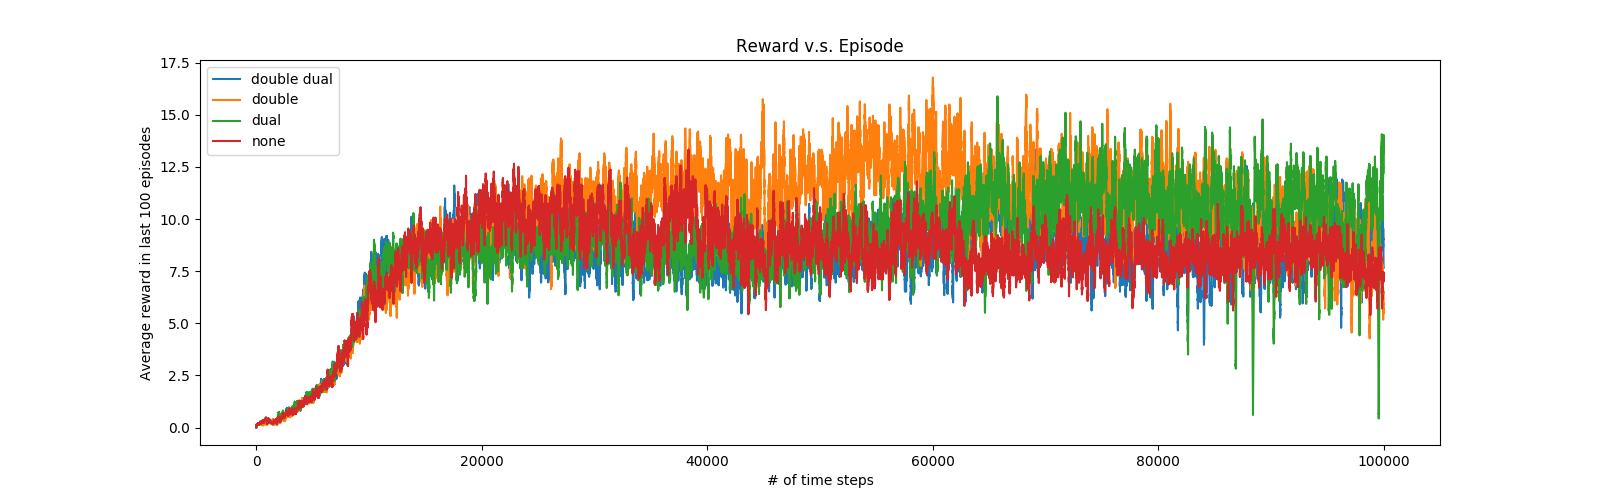
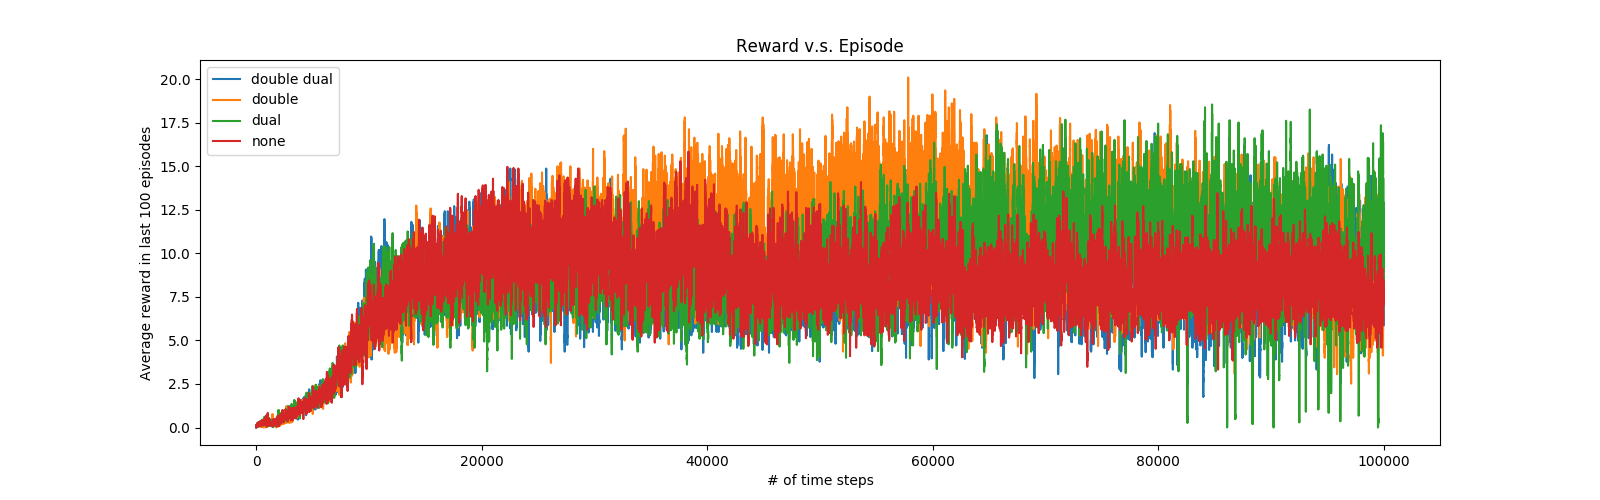
Reward v.s. Episode of DQN on Breakout. (100 > 30)
Reward v.s. Episode of DQN on Breakout.
Y-axis: average reward in last 30 episodes

diff --git a/hw4/results/Breakout_DQN/plot.py b/hw4/results/Breakout_DQN/plot.py
@@ -6,14 +6,83 @@ plt.switch_backend('agg')
 
 if __name__ == "__main__":
 
-    double_dual_rewards = np.load('./hw4_tf_DQN_double_dual/history_recent_avg_reward.npy')
-    double_rewards = np.load('./hw4_tf_DQN_double/history_recent_avg_reward.npy')
-    dual_rewards = np.load('./hw4_tf_DQN_dual/history_recent_avg_reward.npy')
-    none_dqn_rewards = np.load('./hw4_tf_DQN_none/history_recent_avg_reward.npy')
+    # double_dual_rewards = np.load('./hw4_tf_DQN_double_dual/history_recent_avg_reward.npy')
+    # double_rewards = np.load('./hw4_tf_DQN_double/history_recent_avg_reward.npy')
+    # dual_rewards = np.load('./hw4_tf_DQN_dual/history_recent_avg_reward.npy')
+    # none_dqn_rewards = np.load('./hw4_tf_DQN_none/history_recent_avg_reward.npy')
+    recent_episode_num = 30
+
+    double_dual_rewards = []
+    for index, line in enumerate(open('./hw4_tf_DQN_double_dual/log.txt', 'r')):
+        if index == 0 or index == 1:
+            continue
+        episode, step, reward, recent_reward = line.split(',')
+        double_dual_rewards.append(reward)
+
+    double_dual_rewards = np.array(double_dual_rewards)
+    print ('double_dual_rewards.shape[0]: {0}'.format(double_dual_rewards.shape[0]))
+
+    double_dual_recent_avg_reward = []
+    for i in range(double_dual_rewards.shape[0]):
+        recent_rewards = double_dual_rewards[max(0, i - recent_episode_num):i + 1]
+        # Convert string list to float list.
+        recent_rewards = list(map(float, recent_rewards))
+        double_dual_recent_avg_reward.append(sum(recent_rewards) / len(recent_rewards))
+
+    double_rewards = []
+    for index, line in enumerate(open('./hw4_tf_DQN_double/log.txt', 'r')):
+        if index == 0 or index == 1:
+            continue
+        episode, step, reward, recent_reward = line.split(',')
+        double_rewards.append(reward)
+
+    double_rewards = np.array(double_rewards)
+    print ('double_rewards.shape[0]: {0}'.format(double_rewards.shape[0]))
+
+    double_recent_avg_reward = []
+    for i in range(double_rewards.shape[0]):
+        recent_rewards = double_rewards[max(0, i - recent_episode_num):i + 1]
+        # Convert string list to float list.
+        recent_rewards = list(map(float, recent_rewards))
+        double_recent_avg_reward.append(sum(recent_rewards) / len(recent_rewards))
+
+    dual_rewards = []
+    for index, line in enumerate(open('./hw4_tf_DQN_dual/log.txt', 'r')):
+        if index == 0 or index == 1:
+            continue
+        episode, step, reward, recent_reward = line.split(',')
+        dual_rewards.append(reward)
+
+    dual_rewards = np.array(dual_rewards)
+    print ('dual_rewards.shape[0]: {0}'.format(dual_rewards.shape[0]))
+
+    dual_recent_avg_reward = []
+    for i in range(dual_rewards.shape[0]):
+        recent_rewards = dual_rewards[max(0, i - recent_episode_num):i + 1]
+        # Convert string list to float list.
+        recent_rewards = list(map(float, recent_rewards))
+        dual_recent_avg_reward.append(sum(recent_rewards) / len(recent_rewards))
+        
+    none_rewards = []
+    for index, line in enumerate(open('./hw4_tf_DQN_none/log.txt', 'r')):
+        if index == 0 or index == 1:
+            continue
+        episode, step, reward, recent_reward = line.split(',')
+        none_rewards.append(reward)
+
+    none_rewards = np.array(none_rewards)
+    print ('none_rewards.shape[0]: {0}'.format(none_rewards.shape[0]))
+
+    none_recent_avg_reward = []
+    for i in range(none_rewards.shape[0]):
+        recent_rewards = none_rewards[max(0, i - recent_episode_num):i + 1]
+        # Convert string list to float list.
+        recent_rewards = list(map(float, recent_rewards))
+        none_recent_avg_reward.append(sum(recent_rewards) / len(recent_rewards))
 
     plt.clf()
     plt.figure(figsize=(16, 5))
-    plt.plot(double_dual_rewards, label='double dual')
+    plt.plot(double_dual_recent_avg_reward, label='double dual')
     plt.legend(loc='upper left')
     plt.title('Reward v.s. Episode')
     plt.ylabel('Average reward in last 100 episodes')
@@ -22,7 +91,7 @@ if __name__ == "__main__":
 
     plt.clf()
     plt.figure(figsize=(16, 5))
-    plt.plot(double_rewards, label='double')
+    plt.plot(double_recent_avg_reward, label='double')
     plt.legend(loc='upper left')
     plt.title('Reward v.s. Episode')
     plt.ylabel('Average reward in last 100 episodes')
@@ -31,7 +100,7 @@ if __name__ == "__main__":
     
     plt.clf()
     plt.figure(figsize=(16, 5))
-    plt.plot(dual_rewards, label='dual')
+    plt.plot(dual_recent_avg_reward, label='dual')
     plt.legend(loc='upper left')
     plt.title('Reward v.s. Episode')
     plt.ylabel('Average reward in last 100 episodes')
@@ -40,7 +109,7 @@ if __name__ == "__main__":
     
     plt.clf()
     plt.figure(figsize=(16, 5))
-    plt.plot(none_dqn_rewards, label='none')
+    plt.plot(none_recent_avg_reward, label='none')
     plt.legend(loc='upper left')
     plt.title('Reward v.s. Episode')
     plt.ylabel('Average reward in last 100 episodes')
@@ -49,10 +118,10 @@ if __name__ == "__main__":
 
     plt.clf()
     plt.figure(figsize=(16, 5))
-    plt.plot(double_dual_rewards, label='double dual')
-    plt.plot(double_rewards, label='double')
-    plt.plot(dual_rewards, label='dual')
-    plt.plot(none_dqn_rewards, label='none')
+    plt.plot(double_dual_recent_avg_reward, label='double dual')
+    plt.plot(double_recent_avg_reward, label='double')
+    plt.plot(dual_recent_avg_reward, label='dual')
+    plt.plot(none_recent_avg_reward, label='none')
     plt.legend(loc='upper left')
     plt.title('Reward v.s. Episode')
     plt.ylabel('Average reward in last 100 episodes')
